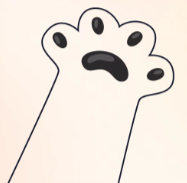
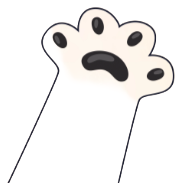
debut partie2

diff --git a/src/app/contact/contact.component.scss b/src/app/contact/contact.component.scss
@@ -24,8 +24,10 @@ $color5: rgb(118,120,130);
   bottom: $bottom;
   left: $left;
 }
+
 /*======================== SECTION2 =================================*/
-/*================================== ROW2 ============================*/
+
+/*============ ROW1 ============*/
 .div_row1{
   margin-top: 60px;
   @extend %div_row;
@@ -40,7 +42,8 @@ $color5: rgb(118,120,130);
   @extend %div_row;
   justify-content: space-around;
   border-radius: 70px;
-  border: 1px solid $color;
+  background: linear-gradient(90deg, $color4, $color3);
+  box-shadow: 0 0 1px $color;
   padding: 10px 30px;
   height: 190px;
   img{
@@ -51,30 +54,37 @@ $color5: rgb(118,120,130);
   }
   p {
     font-size: 1rem;
-    text-transform: uppercase;
   }
 }
-/*================================== ROW2 ============================*/
+/*========= ROW2 =========*/
 .div_row2 {
   @extend %div_row;
-  justify-content: space-around;
+  justify-content: space-between;
   .div_row2_col1{
     @extend %div_col;
     gap: 10px;
   }
 }
+/*----------- col1 ------------*/
+
 .div_row2_col1 .div_link_1{
   @extend %div_row;
   justify-content: space-between;
-  padding: 20px 30px;
+  padding: 20px 50px;
   background: linear-gradient(135deg, $color4, $color3);
   border-radius: 70px;
+  box-shadow: 0 0 1px $color;
   .div_row{
     @extend %div_row;
     gap: 20px;
   }
   .image2{
     margin-left: 70px;
+  }
+  .texte{
+    @extend %div_col;
+    align-items: flex-start;
+    gap: 5px;
   }
 }
 button{
@@ -83,14 +93,17 @@ button{
   padding: 15px 30px;
   font-weight: 600;
   border: 1px solid $color2;
+  font-size: 1rem;
 }
 .div_row2_col1 .div_link_2{
   @extend %div_col;
   justify-content: space-between;
   padding: 20px;
   background: linear-gradient(135deg, $color4, $color3);
-  border-radius: 70px;
+  border-radius: 50px;
   gap: 20px;
+  box-shadow: 0 0 2px $color;
+
   .div_link_2_1, .card_text{
     @extend %div_row;
     justify-content: space-between;
@@ -102,7 +115,7 @@ button{
 }
 .div_link_2{
   .card_text{
-    h3{
+    h3, p{
       font-weight: 600;
     }
     p{
@@ -121,4 +134,41 @@ button{
   .color2{
     background: rgb(192,215,255);
   }
+}
+/*-------------- col2 ---------*/
+.div_row2_col2{
+  @extend %div_col;
+  align-items: flex-start;
+  justify-content: space-between;
+
+  h3{
+    font-size: 2rem;
+  }
+  p{
+    font-size: 1.17rem;
+    color: $color5;
+  }
+}
+.div_row2_col2{
+  .div_row {
+    @extend %div_row;
+    .btn_next_step {
+      @include absolute_div(none,20px,20px,none);
+      border-radius: 50%;
+      font-size: 2rem;
+      color: $color3;
+      background: $color2;
+      width: 250px;
+      height: 250px;
+      border: 20px solid $color3;
+      cursor: pointer;
+      box-shadow: 0 0 1px $color;
+
+    }
+  }
+}
+/*--------- bottom image ------------*/
+.image_bottom{
+  @include absolute_div(none,0,0,0);
+  margin: 0 auto;
 }

diff --git a/src/app/contact/contact.component.html b/src/app/contact/contact.component.html
@@ -50,5 +50,17 @@
         </div>
       </div>
     </div>
+    <div class="div_row2_col2">
+      <h3>
+        You completed this step, <br> let's move forward
+      </h3>
+      <p>I'm a catutor, my name <br>
+        is Taylor, our school goal
+      </p>
+      <div class="div_row">
+        <button class="btn_next_step">Next Step</button>
+      </div>
+    </div>
   </div>
+  <img class="image_bottom" src="assets/patte_chat.png" alt="pattechat">
 </section>

diff --git a/src/app/app-routing.module.ts b/src/app/app-routing.module.ts
@@ -5,7 +5,7 @@ import {ContactComponent} from "./contact/contact.component";
 
 const routes: Routes = [
   {path: 'home', component: HomeComponent},
-  {path: 'contact', component: ContactComponent},
+  {path: 'courses', component: ContactComponent},
   {path: '', component: HomeComponent},
   {path: '**', redirectTo: '/home'}
 ];

diff --git a/src/app/app.component.scss b/src/app/app.component.scss
@@ -44,6 +44,7 @@ main{
           font-weight: 600;
           cursor: pointer;
           color: $color;
+          font-size: 1rem;
         }
       }
     }
@@ -66,4 +67,5 @@ header button{
   padding: 15px 30px;
   font-weight: 600;
   border: 1px solid $color2;
+  font-size: 1rem;
 }

diff --git a/src/app/app.component.html b/src/app/app.component.html
@@ -8,7 +8,7 @@
     <nav>
       <ul>
         <li><a href="#">About</a></li>
-        <li><a href="/contact">Courses</a></li>
+        <li><a href="/courses">Courses</a></li>
         <li><a href="#">Plans</a></li>
         <li><a href="#">FAQ</a></li>
       </ul>
